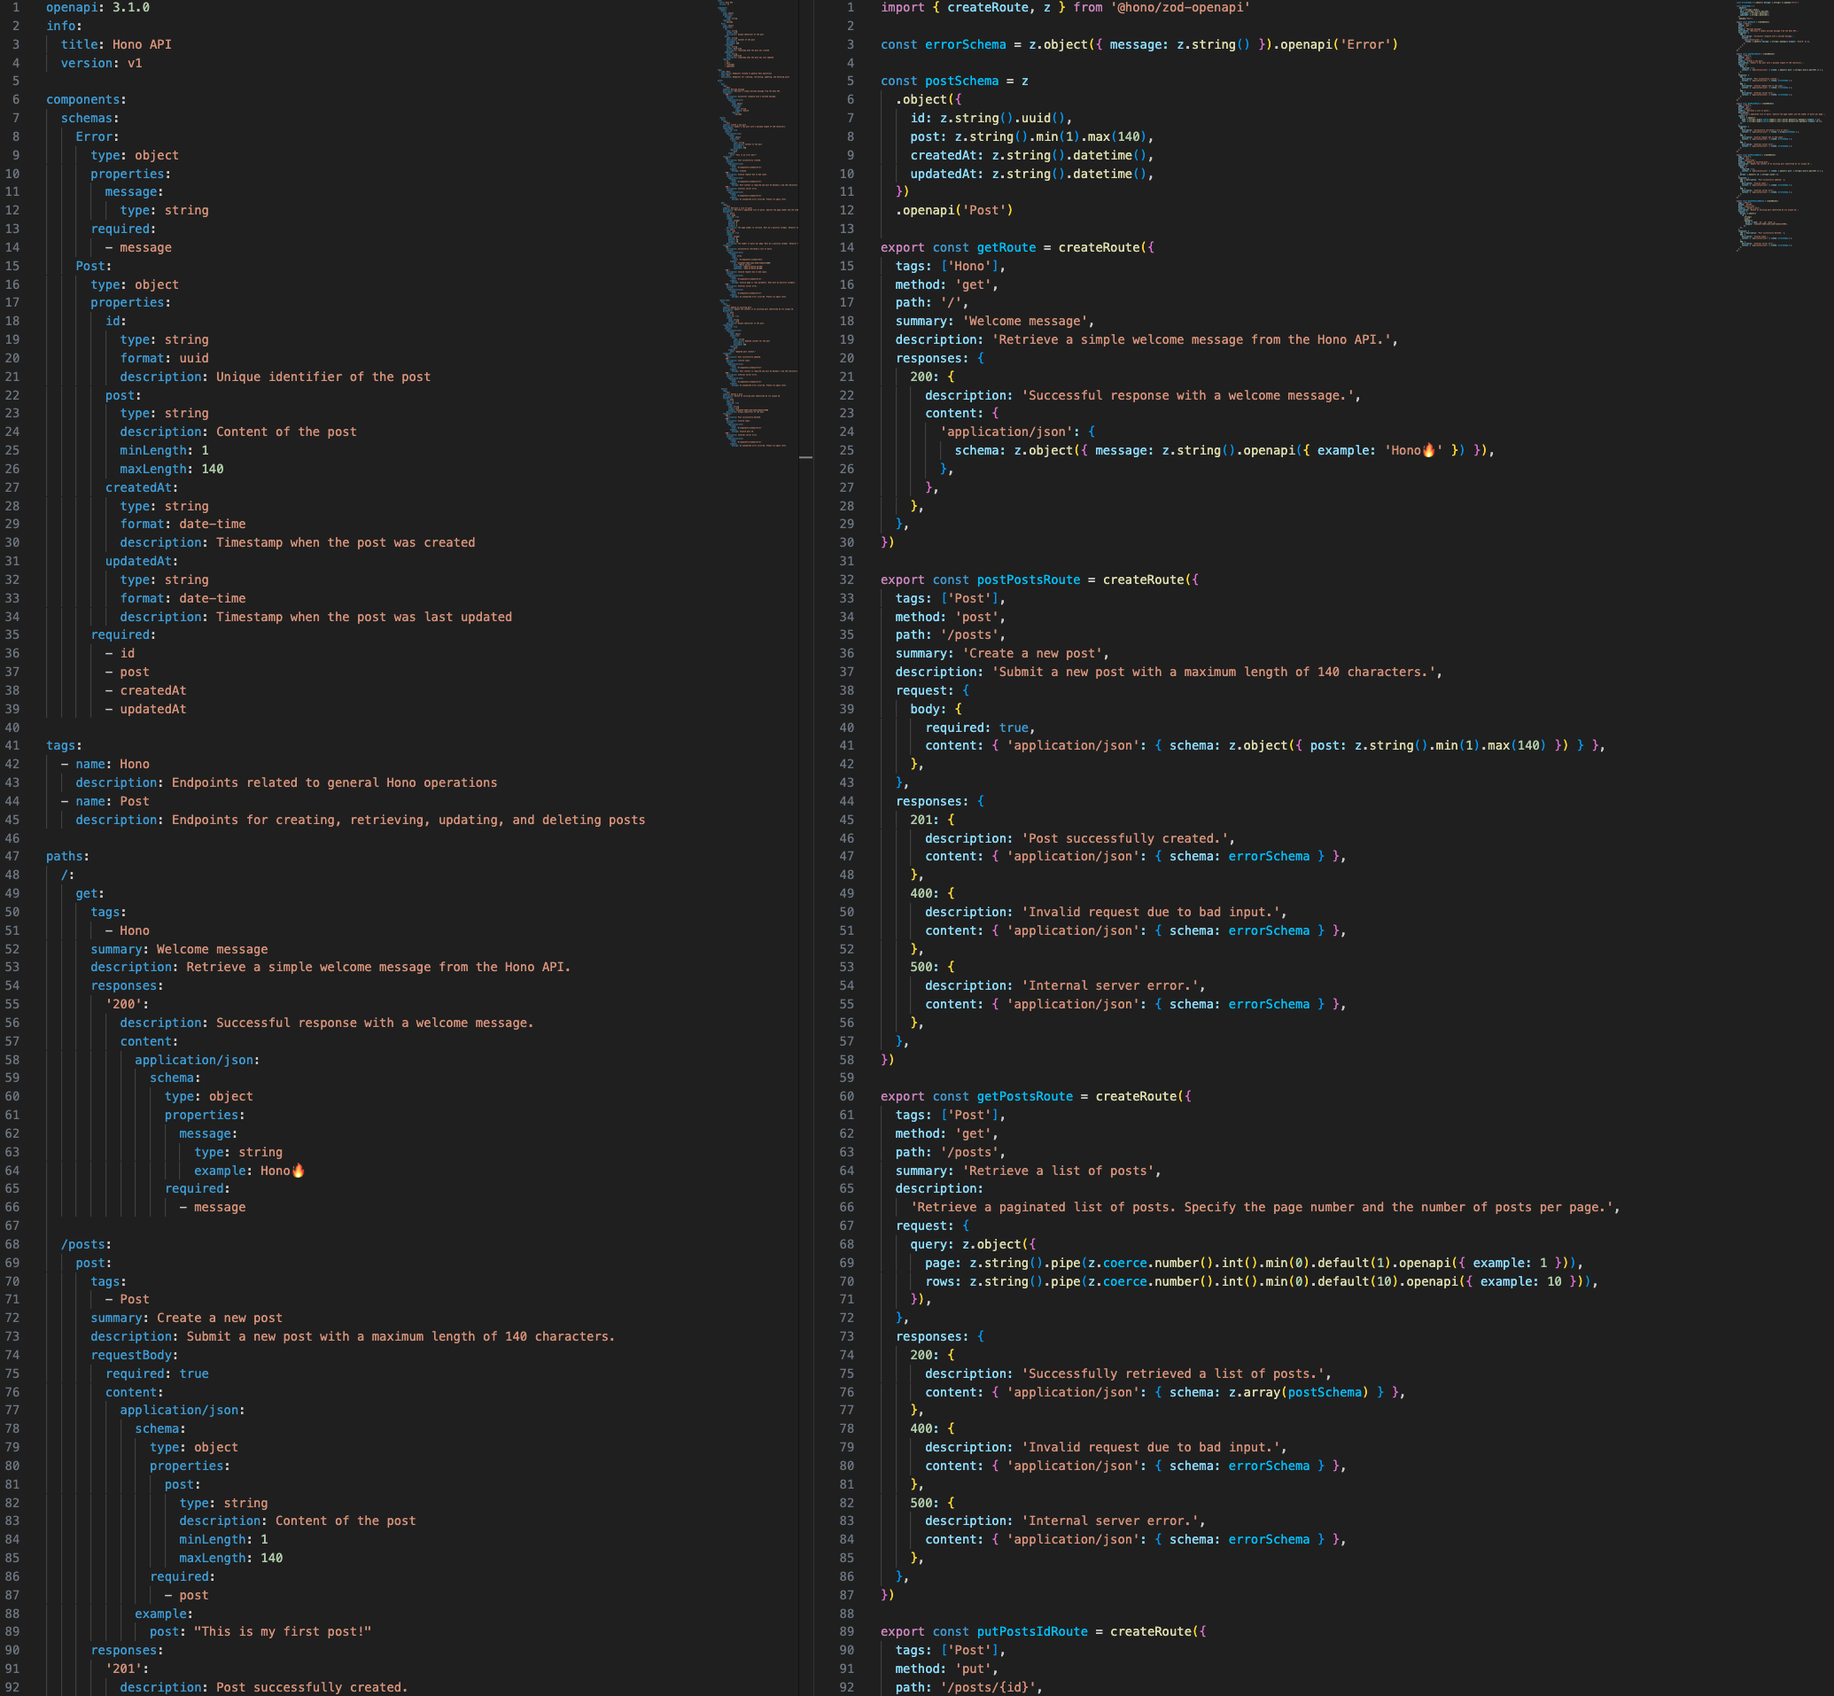
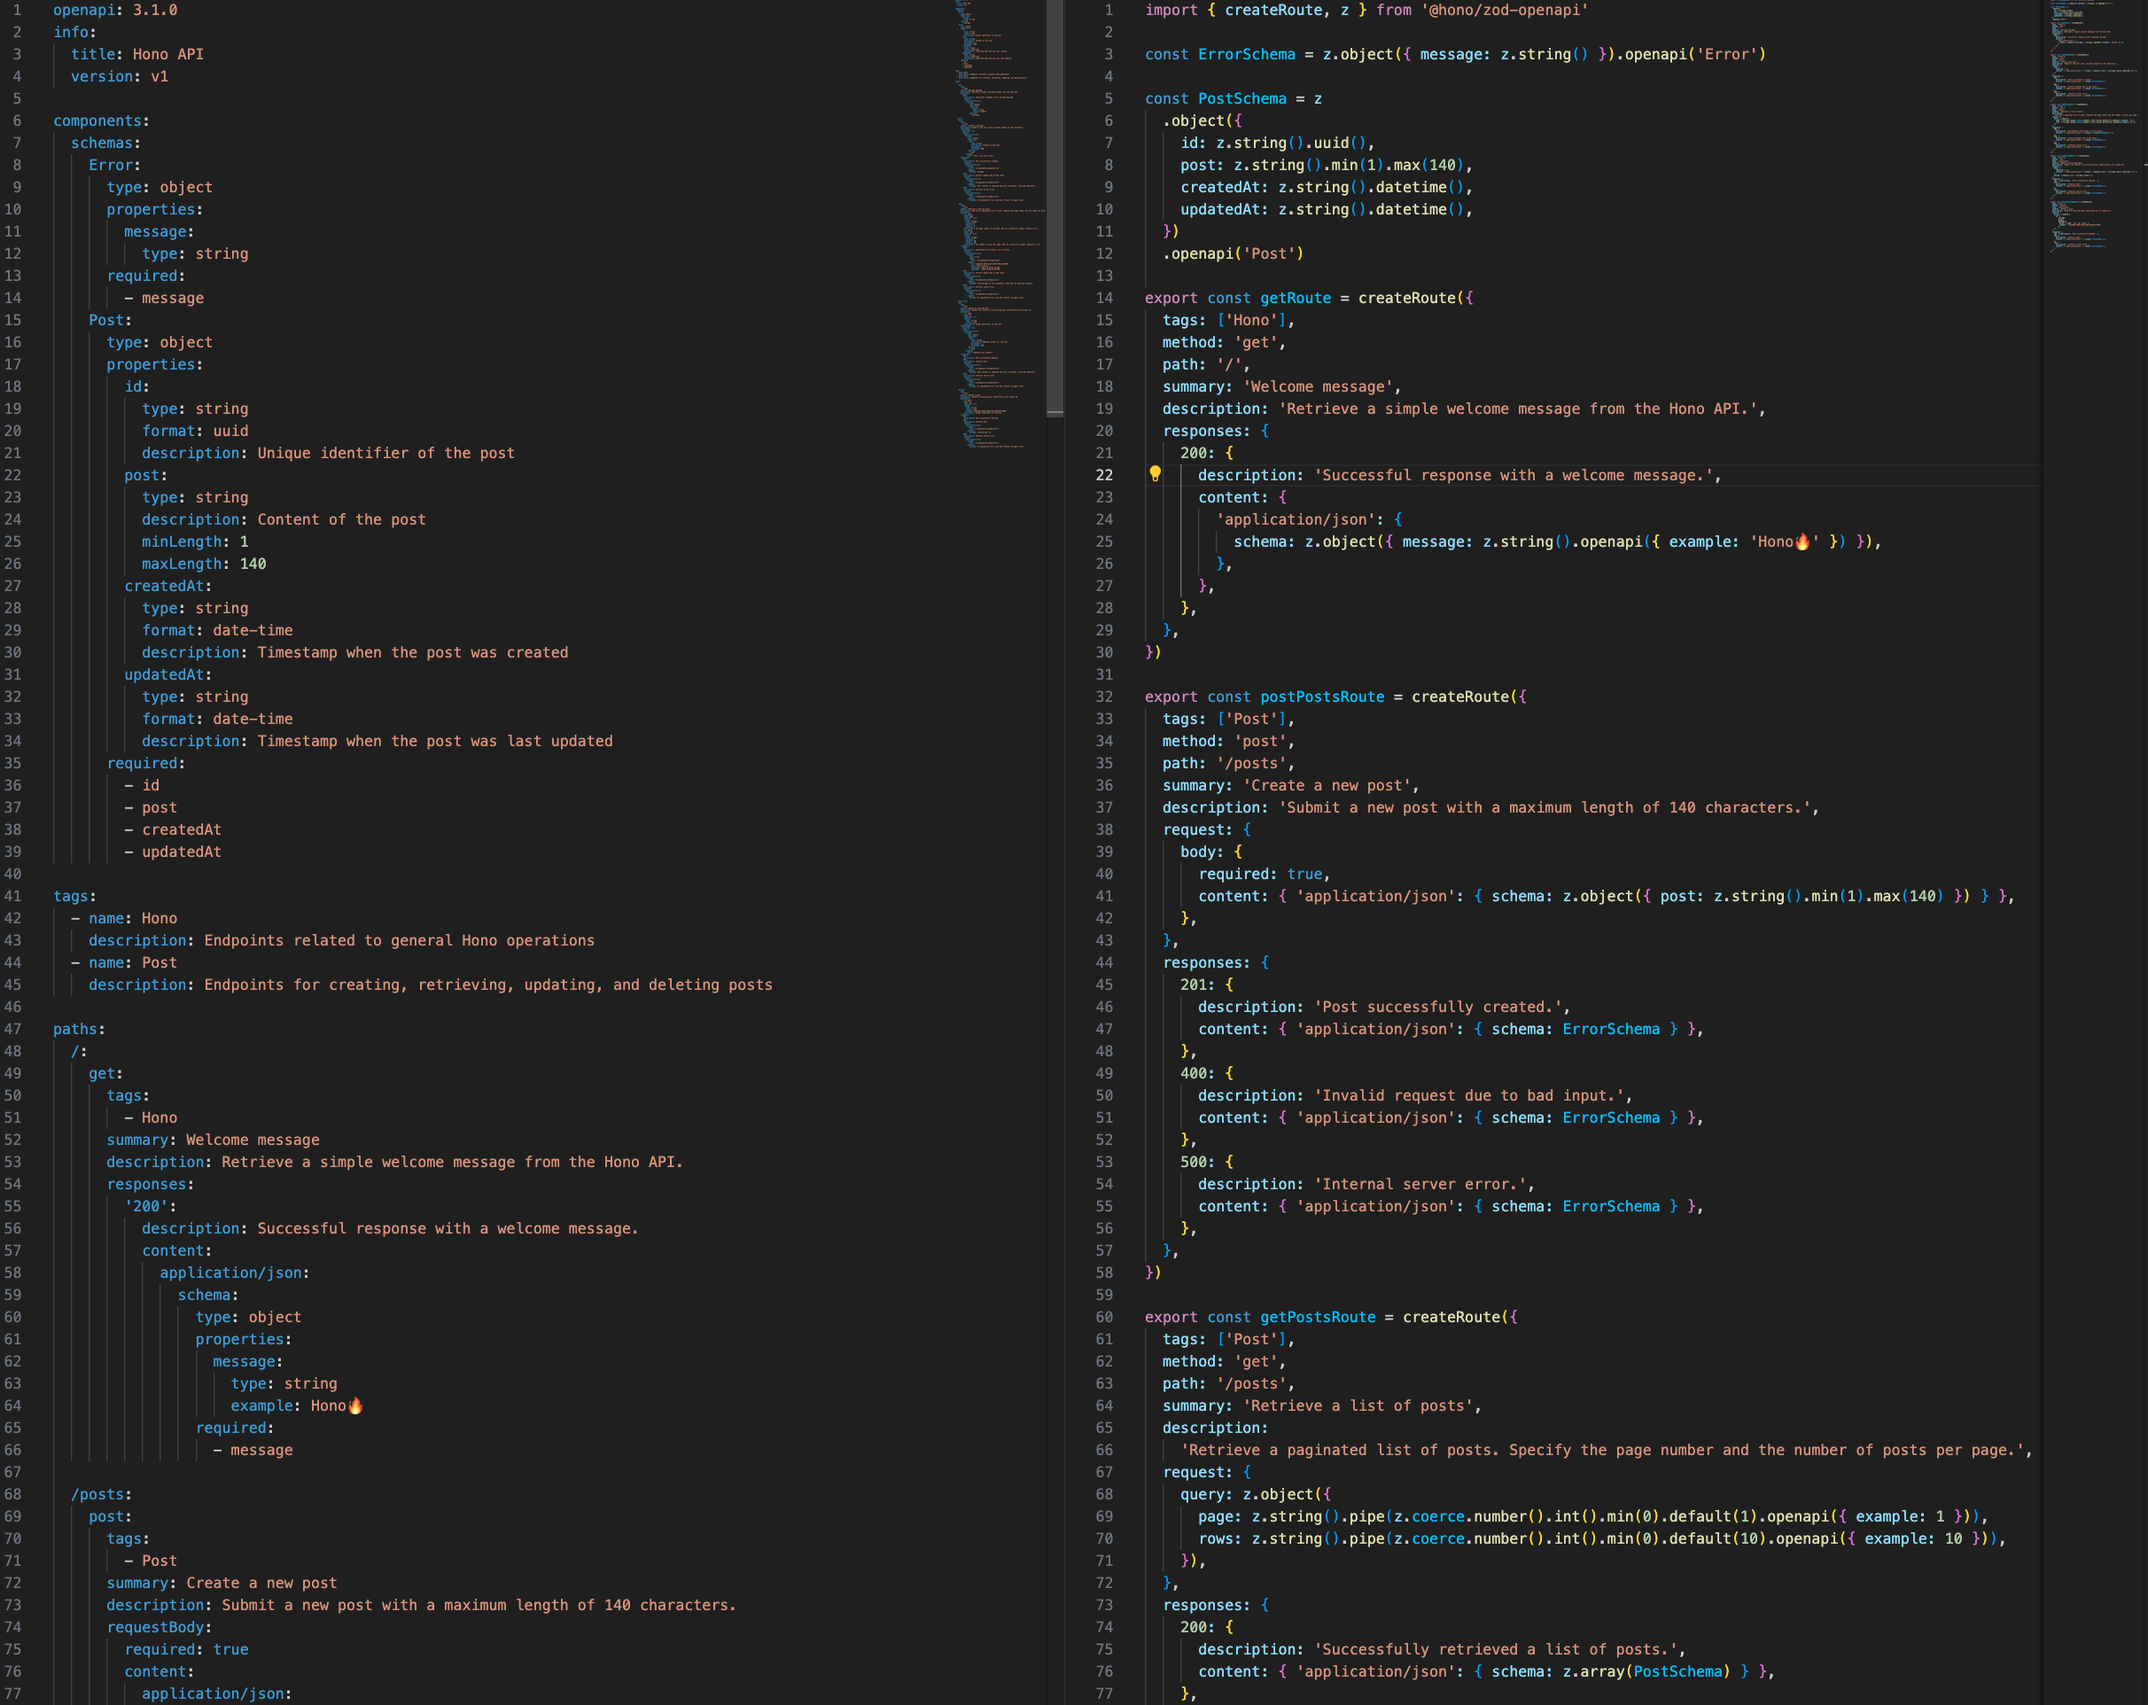
change md

diff --git a/README.md b/README.md
@@ -296,9 +296,9 @@ output:
 ```ts
 import { createRoute, z } from '@hono/zod-openapi'
 
-const errorSchema = z.object({ message: z.string() }).openapi('Error')
+const ErrorSchema = z.object({ message: z.string() }).openapi('Error')
 
-const postSchema = z
+const PostSchema = z
   .object({
     id: z.string().uuid(),
     post: z.string().min(1).max(140),
@@ -306,11 +306,6 @@ const postSchema = z
     updatedAt: z.string().datetime(),
   })
   .openapi('Post')
-
-export const schemas = {
-  errorSchema,
-  postSchema,
-}
 
 export const getRoute = createRoute({
   tags: ['Hono'],
@@ -345,15 +340,15 @@ export const postPostsRoute = createRoute({
   responses: {
     201: {
       description: 'Post successfully created.',
-      content: { 'application/json': { schema: errorSchema } },
+      content: { 'application/json': { schema: ErrorSchema } },
     },
     400: {
       description: 'Invalid request due to bad input.',
-      content: { 'application/json': { schema: errorSchema } },
+      content: { 'application/json': { schema: ErrorSchema } },
     },
     500: {
       description: 'Internal server error.',
-      content: { 'application/json': { schema: errorSchema } },
+      content: { 'application/json': { schema: ErrorSchema } },
     },
   },
 })
@@ -374,15 +369,15 @@ export const getPostsRoute = createRoute({
   responses: {
     200: {
       description: 'Successfully retrieved a list of posts.',
-      content: { 'application/json': { schema: z.array(postSchema) } },
+      content: { 'application/json': { schema: z.array(PostSchema) } },
     },
     400: {
       description: 'Invalid request due to bad input.',
-      content: { 'application/json': { schema: errorSchema } },
+      content: { 'application/json': { schema: ErrorSchema } },
     },
     500: {
       description: 'Internal server error.',
-      content: { 'application/json': { schema: errorSchema } },
+      content: { 'application/json': { schema: ErrorSchema } },
     },
   },
 })
@@ -404,11 +399,11 @@ export const putPostsIdRoute = createRoute({
     204: { description: 'Post successfully updated.' },
     400: {
       description: 'Invalid input.',
-      content: { 'application/json': { schema: errorSchema } },
+      content: { 'application/json': { schema: ErrorSchema } },
     },
     500: {
       description: 'Internal server error.',
-      content: { 'application/json': { schema: errorSchema } },
+      content: { 'application/json': { schema: ErrorSchema } },
     },
   },
 })
@@ -434,11 +429,11 @@ export const deletePostsIdRoute = createRoute({
     204: { description: 'Post successfully deleted.' },
     400: {
       description: 'Invalid input.',
-      content: { 'application/json': { schema: errorSchema } },
+      content: { 'application/json': { schema: ErrorSchema } },
     },
     500: {
       description: 'Internal server error.',
-      content: { 'application/json': { schema: errorSchema } },
+      content: { 'application/json': { schema: ErrorSchema } },
     },
   },
 })

diff --git a/packages/hono-takibi/README.md b/packages/hono-takibi/README.md
@@ -296,9 +296,9 @@ output:
 ```ts
 import { createRoute, z } from '@hono/zod-openapi'
 
-const errorSchema = z.object({ message: z.string() }).openapi('Error')
+const ErrorSchema = z.object({ message: z.string() }).openapi('Error')
 
-const postSchema = z
+const PostSchema = z
   .object({
     id: z.string().uuid(),
     post: z.string().min(1).max(140),
@@ -306,11 +306,6 @@ const postSchema = z
     updatedAt: z.string().datetime(),
   })
   .openapi('Post')
-
-export const schemas = {
-  errorSchema,
-  postSchema,
-}
 
 export const getRoute = createRoute({
   tags: ['Hono'],
@@ -345,15 +340,15 @@ export const postPostsRoute = createRoute({
   responses: {
     201: {
       description: 'Post successfully created.',
-      content: { 'application/json': { schema: errorSchema } },
+      content: { 'application/json': { schema: ErrorSchema } },
     },
     400: {
       description: 'Invalid request due to bad input.',
-      content: { 'application/json': { schema: errorSchema } },
+      content: { 'application/json': { schema: ErrorSchema } },
     },
     500: {
       description: 'Internal server error.',
-      content: { 'application/json': { schema: errorSchema } },
+      content: { 'application/json': { schema: ErrorSchema } },
     },
   },
 })
@@ -374,15 +369,15 @@ export const getPostsRoute = createRoute({
   responses: {
     200: {
       description: 'Successfully retrieved a list of posts.',
-      content: { 'application/json': { schema: z.array(postSchema) } },
+      content: { 'application/json': { schema: z.array(PostSchema) } },
     },
     400: {
       description: 'Invalid request due to bad input.',
-      content: { 'application/json': { schema: errorSchema } },
+      content: { 'application/json': { schema: ErrorSchema } },
     },
     500: {
       description: 'Internal server error.',
-      content: { 'application/json': { schema: errorSchema } },
+      content: { 'application/json': { schema: ErrorSchema } },
     },
   },
 })
@@ -404,11 +399,11 @@ export const putPostsIdRoute = createRoute({
     204: { description: 'Post successfully updated.' },
     400: {
       description: 'Invalid input.',
-      content: { 'application/json': { schema: errorSchema } },
+      content: { 'application/json': { schema: ErrorSchema } },
     },
     500: {
       description: 'Internal server error.',
-      content: { 'application/json': { schema: errorSchema } },
+      content: { 'application/json': { schema: ErrorSchema } },
     },
   },
 })
@@ -434,11 +429,11 @@ export const deletePostsIdRoute = createRoute({
     204: { description: 'Post successfully deleted.' },
     400: {
       description: 'Invalid input.',
-      content: { 'application/json': { schema: errorSchema } },
+      content: { 'application/json': { schema: ErrorSchema } },
     },
     500: {
       description: 'Internal server error.',
-      content: { 'application/json': { schema: errorSchema } },
+      content: { 'application/json': { schema: ErrorSchema } },
     },
   },
 })
